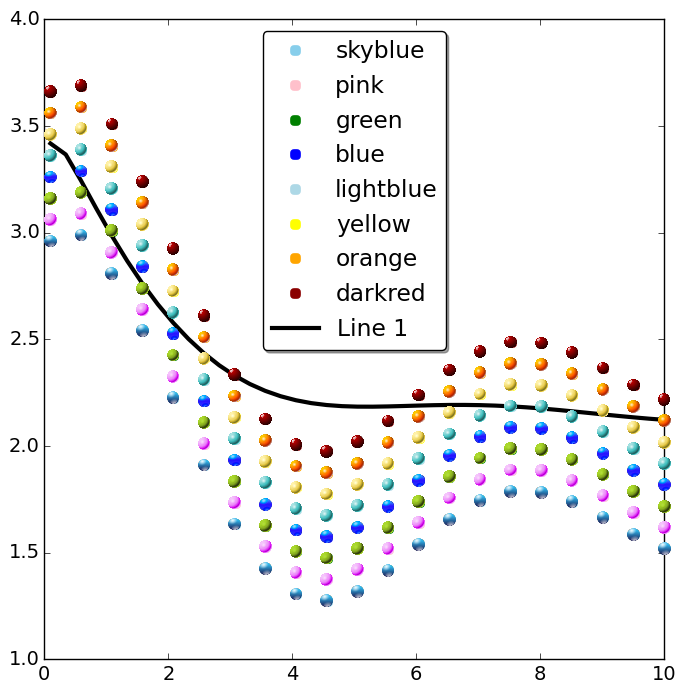
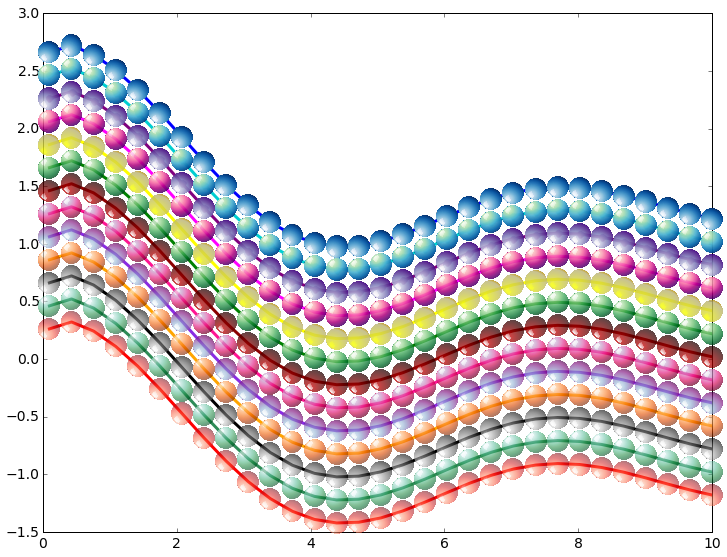
Added alpha and invert options to plot the spheres

diff --git a/plt_esfera.py b/plt_esfera.py
@@ -45,17 +45,30 @@ def plot_esfera(ax, x, y, label=None, **kwargs):
       if cmap == v:
         color= k
 
+  alpha=1.0
+  if 'alpha' in kwargs:
+    alpha= kwargs['alpha']
+
+  origin= 'upper'
+  if 'invert' in kwargs:
+    if not kwargs['invert']: origin= False
+
   # Plot a circle of almost the same size below the curve.
   # This sets scales, labels, etc in the plot automatically using plot machinery
   # or at leat so I hope!
-  line, = ax.plot(x,y,"o",mfc=color, mec=color, markersize=.9*markersize, label=label)
+  if alpha < 0.9:
+    alpha_l=0.001
+  else:
+    alpha_l= alpha
+  line, = ax.plot(x,y,"o",mfc=color, mec=color, markersize=.5*markersize, label=label, alpha= alpha_l)
+
 
   # Read the image to plot
   zoom= 0.004*markersize
   img= plt.imread('sphere.png')
 
   if color == 'darkred':                  # Use original sphere
-    imagebox = OffsetImage(img, zoom=zoom)
+    imagebox = OffsetImage(img, zoom=zoom, alpha=alpha, origin=origin)
   else:                                   # Colorize the sphere
     lum_img=img[:,:,0]
     thresh= 1.e-9
@@ -64,7 +77,7 @@ def plot_esfera(ax, x, y, label=None, **kwargs):
     maximo= lum_img.max()
     lum_img[lum_img <= thresh] = np.nan # insert 'bad' values (the white)
     lum_img= maximo-lum_img
-    imagebox = OffsetImage(lum_img, zoom=zoom, cmap= my_cmap, origin='upper')
+    imagebox = OffsetImage(lum_img, zoom=zoom, cmap= my_cmap, alpha=alpha, origin=origin)
 
   for xy in zip(x,y):
     ab = AnnotationBbox(imagebox, xy, xycoords='data', pad=0.1, frameon=False)

diff --git a/simple_example_1.py b/simple_example_1.py
@@ -4,21 +4,22 @@ import matplotlib.pyplot as plt
 import plt_esfera
 
 if __name__ == '__main__':
-  fig= plt.figure(figsize(8,8))
-  ax= fig.add_subplot(111,  aspect='auto')
+  fig= plt.figure(figsize=(12,9))
+  ax= fig.add_subplot(111, aspect='auto')
 
-  x= np.linspace(0.1,10,41)
+  x= np.linspace(0.1,10,31)
   y= 1.5*(1+ np.sin(x)/(.01+x))
-  y1= y[::2]
-
-  for c in plt_esfera.colores.values():
-    y1 = y1 + .1
-    plt_esfera.plot_esfera(ax, x[::2],y1, color=c, markersize=8, label=c)
-
-  # Plot a simple "standard" line
-  plt.plot(x,2+(.5+x)*y/(1+x)**2,'-k',lw=3, label='Line 1')
+  y1= y
+  alpha=1.0
+  invert = False
+  for c in plt_esfera.colores.keys():
+    if len(c) > 1:
+      y1 -= .2
+      ax.plot_esfera( x,y1, color=c, markersize=14, alpha=alpha, invert=invert)
+      alpha *= 0.95
+      invert= not invert
+      ax.plot(x,y1,'-',lw=3, color=c)
   # 
-  plt.legend(loc='best', numpoints=1)
-  # plt.savefig('simple_example_1.png')
+  plt.savefig('resources/simple_example_1.png', dpi=72)
   plt.show()
 

diff --git a/simple_example_2.py b/simple_example_2.py
@@ -19,6 +19,6 @@ if __name__ == '__main__':
   ax.plot(x,2+(.5+x)*y/(1+x)**2,'-k',lw=3, label='Line 1')
   # 
   ax.legend(loc='best', numpoints=1)
-  plt.savefig('resources/simple_example_2.png')
+  plt.savefig('resources/simple_example.png', dpi=72)
   plt.show()
 

diff --git a/README.rst b/README.rst
@@ -19,6 +19,10 @@ A picture is worth a thousand ...
 
 .. image:: resources/simple_example.png
 
+and two 2000 ...
+
+.. image:: resources/simple_example_1.png
+
 
 How to use it?
 ==============
